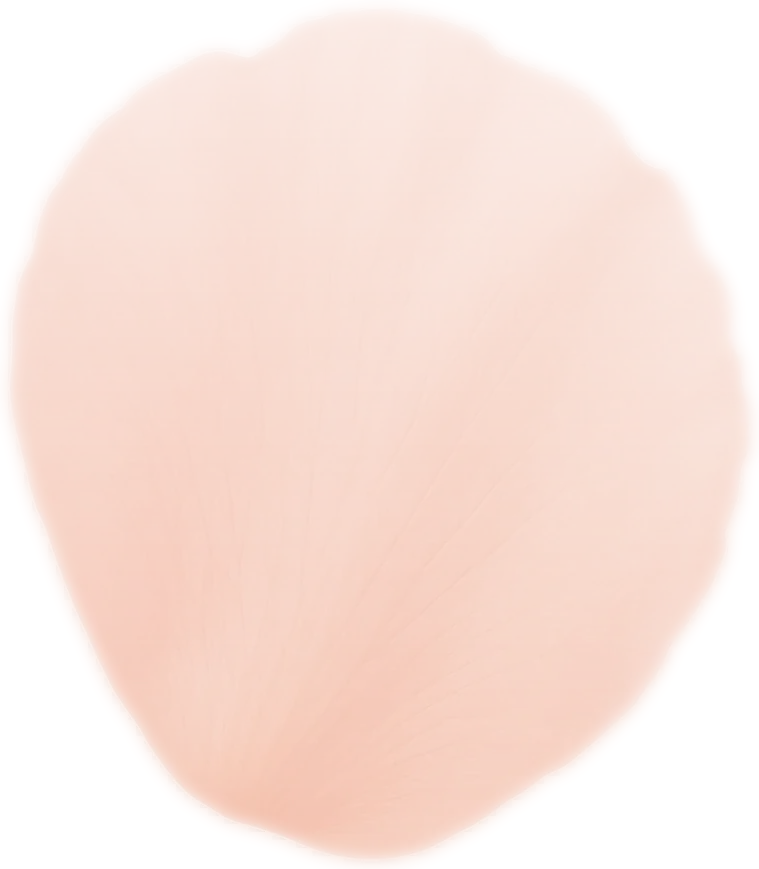
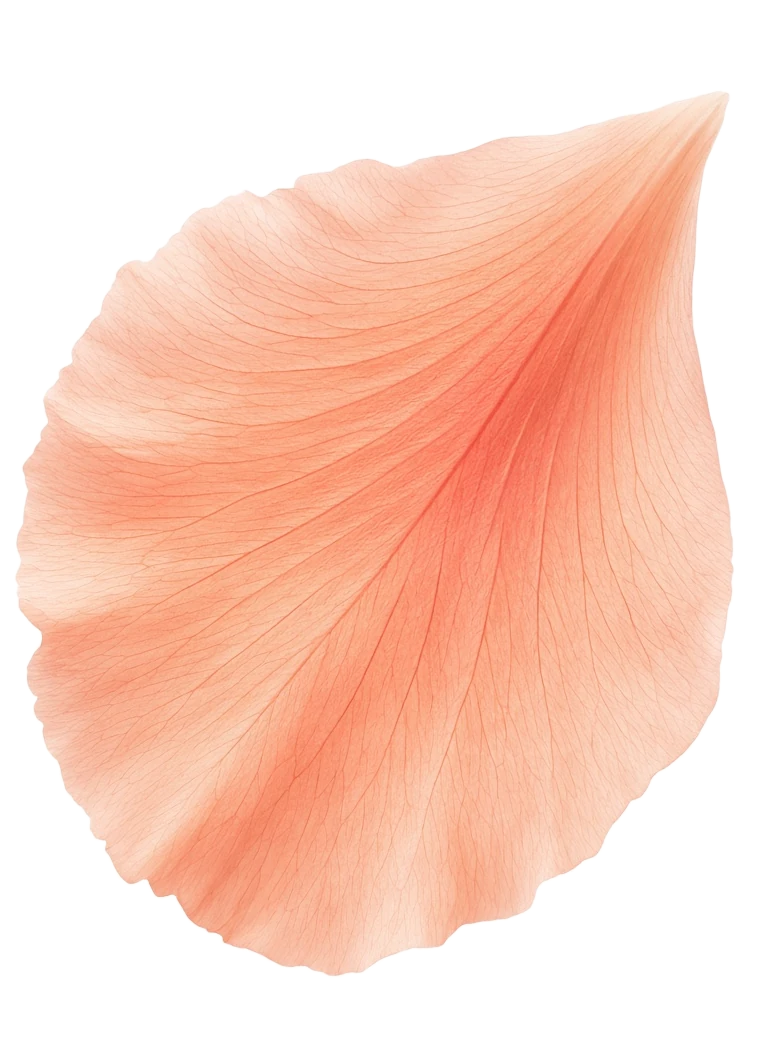
Cambia el retrato por uno luminoso y devuelve presencia a los pétalos.
La foto queda en color natural, sin filtro, y los pétalos durazno se ven sobre el hombro y en el borde izquierdo.

diff --git a/src/app/globals.css b/src/app/globals.css
@@ -1399,7 +1399,7 @@ body:has(dialog[open]) .sticky-cta {
   width: 100%;
   height: 100%;
   object-fit: cover;
-  object-position: 68% 22%;
+  object-position: 58% 16%;
   -webkit-mask-image: linear-gradient(to right, transparent 0%, #000 18%, #000 100%);
   mask-image: linear-gradient(to right, transparent 0%, #000 18%, #000 100%);
 }
@@ -1494,21 +1494,19 @@ body:has(dialog[open]) .sticky-cta {
 
 .petal-left {
   z-index: 1;
-  top: 36%;
-  left: -12rem;
-  width: 22rem;
-  transform: rotate(8deg);
-  opacity: 0.88;
+  top: 46%;
+  left: -13rem;
+  width: 20rem;
+  transform: rotate(-12deg);
+  opacity: 0.94;
 }
 
 .petal-right {
-  right: -4%;
-  bottom: -6%;
-  width: 44%;
-  transform: rotate(10deg);
-  opacity: 0.9;
-  -webkit-mask-image: linear-gradient(to top, #000 28%, transparent 88%);
-  mask-image: linear-gradient(to top, #000 28%, transparent 88%);
+  right: 0;
+  bottom: 0;
+  width: 34%;
+  transform: rotate(16deg);
+  opacity: 0.95;
 }
 
 .btn-line {
@@ -1663,7 +1661,7 @@ body:has(dialog[open]) .sticky-cta {
     height: 16.75rem;
   }
 
-  .hero-bleed { object-position: 62% 18%; }
+  .hero-bleed { object-position: 62% 12%; }
 
   .hero-title { font-size: clamp(1.72rem, 6.7vw, 2.2rem); }
   .hero-title span { white-space: nowrap; }
@@ -1707,9 +1705,10 @@ body:has(dialog[open]) .sticky-cta {
   }
 
   .petal-right {
-    right: -8%;
-    bottom: -10%;
-    width: 46%;
+    right: -4%;
+    bottom: 10%;
+    width: 38%;
+    opacity: 0.95;
   }
 }
 

diff --git a/src/components/hero.tsx b/src/components/hero.tsx
@@ -13,7 +13,7 @@ export function Hero() {
   return (
     <section className="hero-shell">
       <div className="hero-stage">
-        {/* provisional: stock. Sustituir con sesión propia. public/stock/CREDITOS.md */}
+        {/* provisional: ilustración. Sustituir con sesión propia. Sin filtro de color. public/stock/CREDITOS.md */}
         {/* eslint-disable-next-line @next/next/no-img-element */}
         <img className="hero-bleed" src="/stock/hero.webp" alt="" />
         {/* eslint-disable-next-line @next/next/no-img-element */}

diff --git a/public/stock/CREDITOS.md b/public/stock/CREDITOS.md
@@ -6,11 +6,11 @@ Licencia: [Pexels License](https://www.pexels.com/license/).
 
 | Archivo | Uso | Autor | Foto |
 | --- | --- | --- | --- |
-| `hero.webp` | Retrato del hero | Inna Mykytas | https://www.pexels.com/photo/sensual-woman-with-bare-shoulders-looking-at-camera-against-light-background-6233439/ |
+| `hero.webp` | Retrato del hero | Ilustración generada, provisional. Sin filtro de color. | — |
 | `faciales.webp` | Tarjeta Faciales | Polina | https://www.pexels.com/photo/a-woman-looking-down-while-applying-a-cream-on-her-face-using-her-hand-6543614/ |
 | `corporales.webp` | Tarjeta Corporales | Anna Tarazevich | https://www.pexels.com/photo/a-person-massaging-a-client-s-bare-back-6560289/ |
 | `depilacion.webp` | Tarjeta Depilación láser | Paolo Ortega | https://www.pexels.com/photo/person-getting-a-massage-10893344/ |
 | `wellness.webp` | Tarjeta Wellness | Kaboompics | https://www.pexels.com/photo/topless-woman-applying-a-skin-care-product-on-neck-5240617/ |
 | `experiencia.webp` | Bloque Vive la experiencia | Pexels, foto 3757942 | https://www.pexels.com/photo/3757942/ |
-| `petalo-a.webp` | Pétalo de la esquina en Vive la experiencia | Ilustración generada, provisional | — |
-| `petalo-b.webp` | Pétalos del hero | Ilustración generada, provisional | — |
+| `petalo-a.webp` | Pétalo de la esquina en Vive la experiencia | Ilustración generada, provisional, durazno y coral | — |
+| `petalo-b.webp` | Pétalos del hero | Ilustración generada, provisional, durazno y coral | — |
